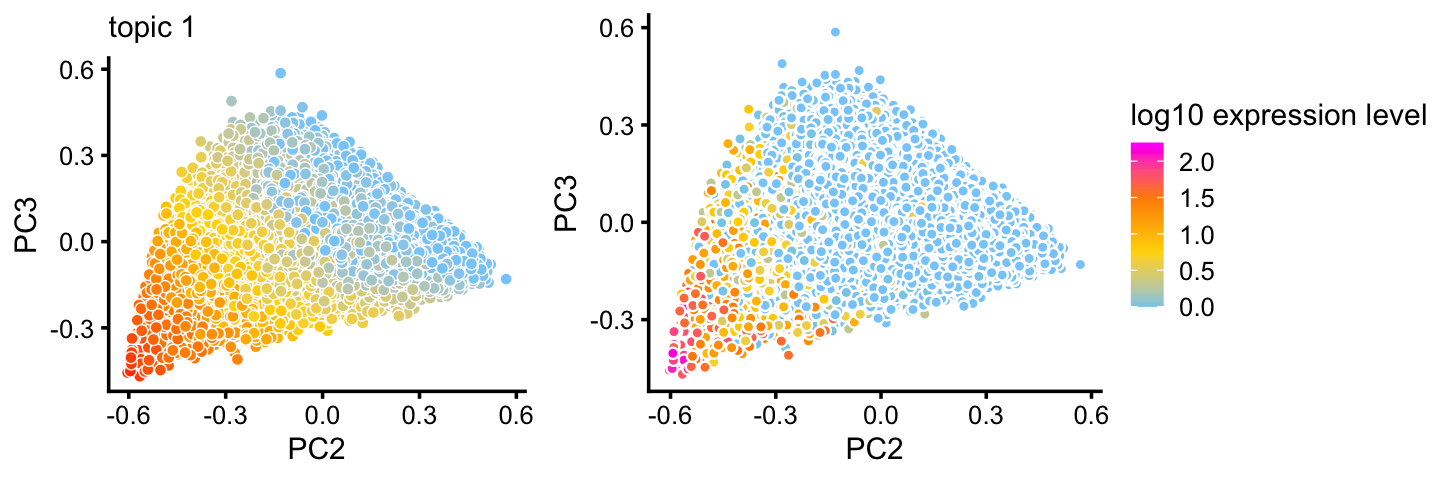
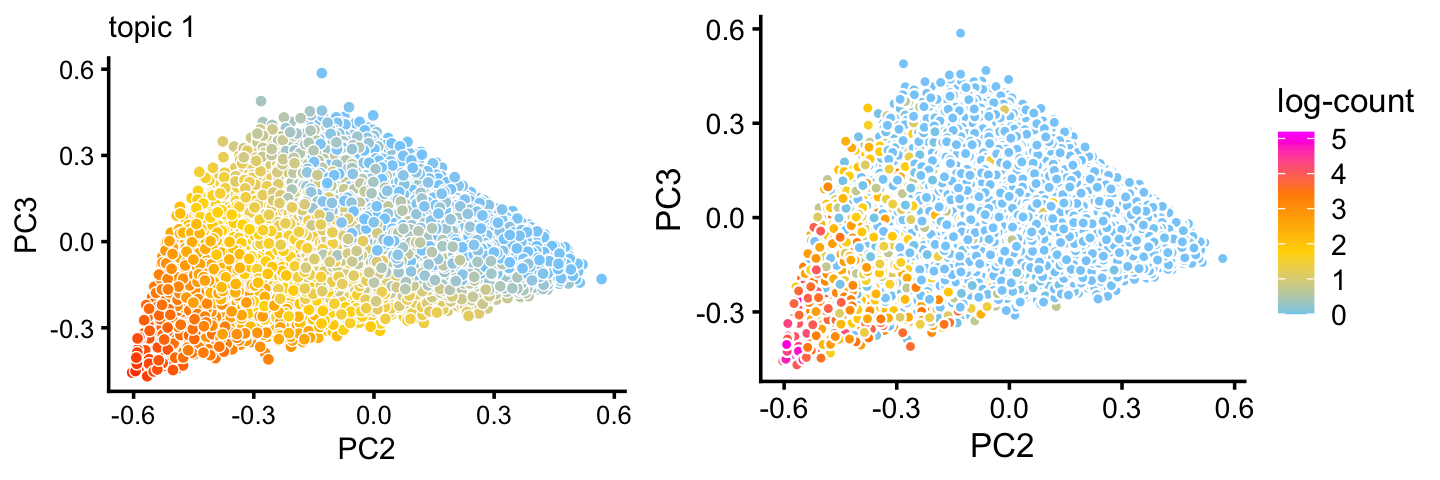
Use pca_plot_with_counts in clusters_pulseseq analysis.

Changed region(s): [[0.0625, 0.0312, 1.0, 0.9688], [0.1875, 0.125, 0.2188, 0.1562]]

diff --git a/docs/clusters_pulseseq.html b/docs/clusters_pulseseq.html
@@ -323,7 +323,7 @@ $(document).ready(function () {
 <div class="tab-content">
 <div id="summary" class="tab-pane fade in active">
 <p>
-<strong>Last updated:</strong> 2020-09-22
+<strong>Last updated:</strong> 2020-09-27
 </p>
 <p>
 <strong>Checks:</strong> <span class="glyphicon glyphicon-ok text-success" aria-hidden="true"></span> 7 <span class="glyphicon glyphicon-exclamation-sign text-danger" aria-hidden="true"></span> 0
@@ -414,16 +414,16 @@ This reproducible <a href="http://rmarkdown.rstudio.com">R Markdown</a> analysis
 <div class="panel panel-default">
 <div class="panel-heading">
 <p class="panel-title">
-<a data-toggle="collapse" data-parent="#workflowr-checks" href="#strongRepositoryversionstrongahrefhttpsgithubcomstephenslabsinglecelltopicstreeeee6fed5a12ea294471f4f5bd9c44693442ceb36targetblankeee6feda"> <span class="glyphicon glyphicon-ok text-success" aria-hidden="true"></span> <strong>Repository version:</strong> <a href="https://github.com/stephenslab/single-cell-topics/tree/eee6fed5a12ea294471f4f5bd9c44693442ceb36" target="_blank">eee6fed</a> </a>
+<a data-toggle="collapse" data-parent="#workflowr-checks" href="#strongRepositoryversionstrongahrefhttpsgithubcomstephenslabsinglecelltopicstreec2a357c1247b6ac924b5d351378c76acd3eb87e6targetblankc2a357ca"> <span class="glyphicon glyphicon-ok text-success" aria-hidden="true"></span> <strong>Repository version:</strong> <a href="https://github.com/stephenslab/single-cell-topics/tree/c2a357c1247b6ac924b5d351378c76acd3eb87e6" target="_blank">c2a357c</a> </a>
 </p>
 </div>
[2 lines of base64/hex data omitted]
 <div class="panel-body">
 <p>
 Great! You are using Git for version control. Tracking code development and connecting the code version to the results is critical for reproducibility.
 </p>
 <p>
-The results in this page were generated with repository version <a href="https://github.com/stephenslab/single-cell-topics/tree/eee6fed5a12ea294471f4f5bd9c44693442ceb36" target="_blank">eee6fed</a>. See the <em>Past versions</em> tab to see a history of the changes made to the R Markdown and HTML files.
+The results in this page were generated with repository version <a href="https://github.com/stephenslab/single-cell-topics/tree/c2a357c1247b6ac924b5d351378c76acd3eb87e6" target="_blank">c2a357c</a>. See the <em>Past versions</em> tab to see a history of the changes made to the R Markdown and HTML files.
 </p>
 <p>
 Note that you need to be careful to ensure that all relevant files for the analysis have been committed to Git prior to generating the results (you can use <code>wflow_publish</code> or <code>wflow_git_commit</code>). workflowr only checks the R Markdown file, but you know if there are other scripts or data files that it depends on. Below is the status of the Git repository when the results were generated:
@@ -434,18 +434,22 @@ Ignored files:
     Ignored:    data/pbmc_68k.RData
     Ignored:    data/pbmc_purified.RData
     Ignored:    data/pulseseq.RData
+    Ignored:    output/droplet/diff-count-droplet.RData
     Ignored:    output/droplet/fits-droplet.RData
     Ignored:    output/droplet/rds/
     Ignored:    output/pbmc-68k/fits-pbmc-68k.RData
     Ignored:    output/pbmc-68k/rds/
     Ignored:    output/pbmc-purified/fits-pbmc-purified.RData
     Ignored:    output/pbmc-purified/rds/
+    Ignored:    output/pulseseq/diff-count-pulseseq.RData
     Ignored:    output/pulseseq/fits-pulseseq.RData
     Ignored:    output/pulseseq/rds/
 
 Untracked files:
     Untracked:  analysis/clustering-droplet.rds
-    Untracked:  analysis/clustering-pulseseq.rds
+
+Unstaged changes:
+    Modified:   analysis/plots_tracheal_epithelium.Rmd
 
 </code></pre>
 <p>
@@ -484,6 +488,40 @@ Message
 </tr>
 </thead>
 <tbody>
+<tr>
+<td>
+Rmd
+</td>
+<td>
+<a href="https://github.com/stephenslab/single-cell-topics/blob/c2a357c1247b6ac924b5d351378c76acd3eb87e6/analysis/clusters_pulseseq.Rmd" target="_blank">c2a357c</a>
+</td>
+<td>
+Peter Carbonetto
+</td>
+<td>
+2020-09-27
+</td>
+<td>
+workflowr::wflow_publish(“clusters_pulseseq.Rmd”)
+</td>
+</tr>
+<tr>
+<td>
+html
+</td>
+<td>
+<a href="https://rawcdn.githack.com/stephenslab/single-cell-topics/310ef96bc1c85e8a7cff055b0d0741e73d399a05/docs/clusters_pulseseq.html" target="_blank">310ef96</a>
+</td>
+<td>
+Peter Carbonetto
+</td>
+<td>
+2020-09-22
+</td>
+<td>
+Fixed up figure dimensions in clusters_pulseseq analysis.
+</td>
+</tr>
 <tr>
 <td>
 Rmd
@@ -1562,6 +1600,17 @@ Date
 <tbody>
 <tr>
 <td>
+<a href="https://github.com/stephenslab/single-cell-topics/blob/310ef96bc1c85e8a7cff055b0d0741e73d399a05/docs/figure/clusters_pulseseq.Rmd/pca-plot-club-1-1.png" target="_blank">310ef96</a>
+</td>
+<td>
+Peter Carbonetto
+</td>
+<td>
+2020-09-22
+</td>
+</tr>
+<tr>
+<td>
 <a href="https://github.com/stephenslab/single-cell-topics/blob/56d99a39b9cd2d6a09e725a08b714511e726cdc5/docs/figure/clusters_pulseseq.Rmd/pca-plot-club-1-1.png" target="_blank">56d99a3</a>
 </td>
 <td>
@@ -1603,6 +1652,17 @@ Date
 <tbody>
 <tr>
 <td>
+<a href="https://github.com/stephenslab/single-cell-topics/blob/310ef96bc1c85e8a7cff055b0d0741e73d399a05/docs/figure/clusters_pulseseq.Rmd/pca-plot-club-2-1.png" target="_blank">310ef96</a>
+</td>
+<td>
+Peter Carbonetto
+</td>
+<td>
+2020-09-22
+</td>
+</tr>
+<tr>
+<td>
 <a href="https://github.com/stephenslab/single-cell-topics/blob/56d99a39b9cd2d6a09e725a08b714511e726cdc5/docs/figure/clusters_pulseseq.Rmd/pca-plot-club-2-1.png" target="_blank">56d99a3</a>
 </td>
 <td>
@@ -1619,18 +1679,9 @@ Peter Carbonetto
 <p>The B cell also shows a lot of heterogeneity. Topic 1 is of particular interest because of its close connection to expression of the “hillock” gene <em>Krt13</em>:</p>
 <pre class="r"><code>rows &lt;- which(x == &quot;B&quot;)
 fit2 &lt;- select(poisson2multinom(fit),loadings = rows)
-pca  &lt;- prcomp(fit2$L)$x
 p23  &lt;- pca_plot(fit2,pcs = 2:3,k = 1) + guides(fill = &quot;none&quot;)
-pdat &lt;- data.frame(PC2   = pca[,2],
-                   PC3   = pca[,3],
-                   Krt13 = log10(counts[rows,&quot;Krt13&quot;]))
-p24 &lt;- ggplot(pdat,aes(x = PC2,y = PC3,fill = Krt13)) +
-  geom_point(shape = 21,color = &quot;white&quot;,size = 1.25) +
-  scale_fill_gradientn(colors = c(&quot;skyblue&quot;,&quot;gold&quot;,&quot;darkorange&quot;,&quot;magenta&quot;),
-                        na.value = &quot;lightskyblue&quot;) +
-  labs(fill = &quot;log10 expression level&quot;) +
-  theme_cowplot(font_size = 9)
-plot_grid(p23,p24,rel_widths = c(3,5))</code></pre>
+p24  &lt;- pca_plot_with_counts(fit2,counts[rows,&quot;Krt13&quot;],2:3,log = TRUE)
+plot_grid(p23,p24,rel_widths = c(4,5))</code></pre>
 <p><img src="figure/clusters_pulseseq.Rmd/pca-plot-basal-1.png" width="720" style="display: block; margin: auto;" /></p>
 <p>
 <button type="button" class="btn btn-default btn-xs btn-workflowr btn-workflowr-fig" data-toggle="collapse" data-target="#fig-pca-plot-basal-1">
@@ -1654,6 +1705,17 @@ Date
 </tr>
 </thead>
 <tbody>
+<tr>
+<td>
+<a href="https://github.com/stephenslab/single-cell-topics/blob/310ef96bc1c85e8a7cff055b0d0741e73d399a05/docs/figure/clusters_pulseseq.Rmd/pca-plot-basal-1.png" target="_blank">310ef96</a>
+</td>
+<td>
+Peter Carbonetto
+</td>
+<td>
+2020-09-22
+</td>
+</tr>
 <tr>
 <td>
 <a href="https://github.com/stephenslab/single-cell-topics/blob/56d99a39b9cd2d6a09e725a08b714511e726cdc5/docs/figure/clusters_pulseseq.Rmd/pca-plot-basal-1.png" target="_blank">56d99a3</a>
@@ -1697,7 +1759,7 @@ Peter Carbonetto
 # [1] stats     graphics  grDevices utils     datasets  methods   base     
 # 
 # other attached packages:
-# [1] cowplot_1.0.0      ggplot2_3.3.0      fastTopics_0.3-175 dplyr_0.8.3       
+# [1] cowplot_1.0.0      ggplot2_3.3.0      fastTopics_0.3-177 dplyr_0.8.3       
 # [5] Matrix_1.2-18     
 # 
 # loaded via a namespace (and not attached):
